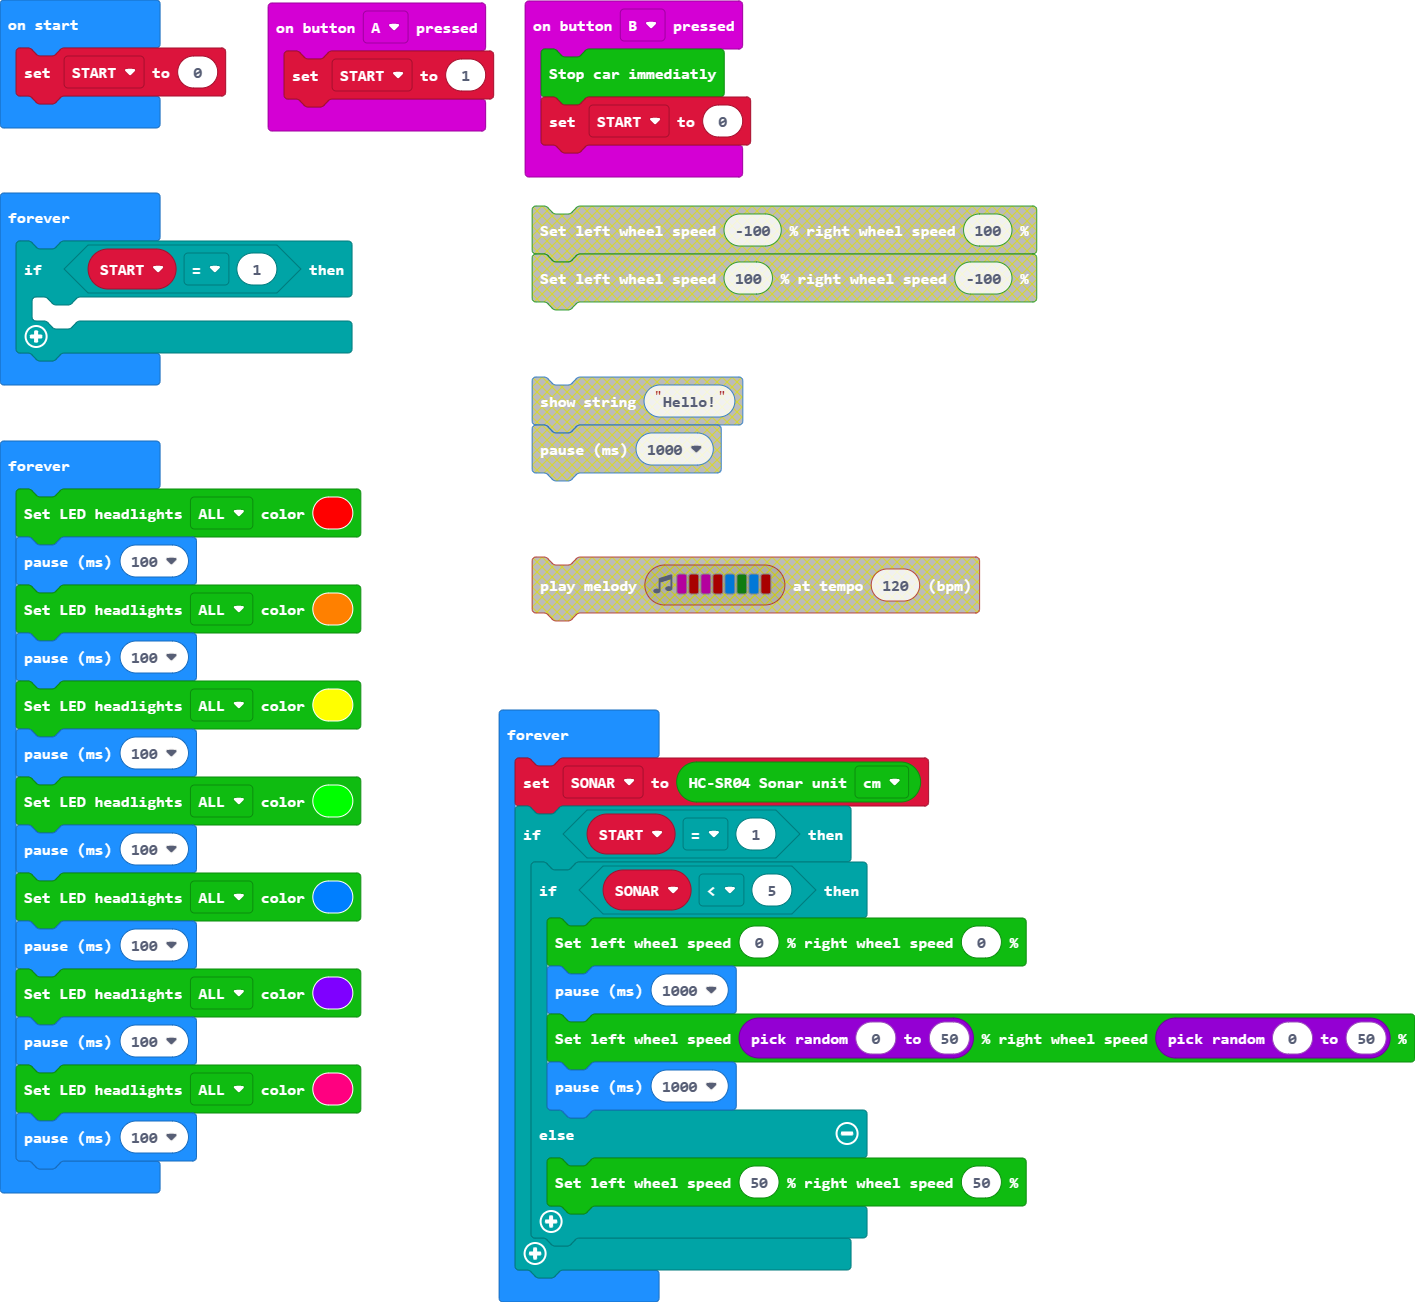
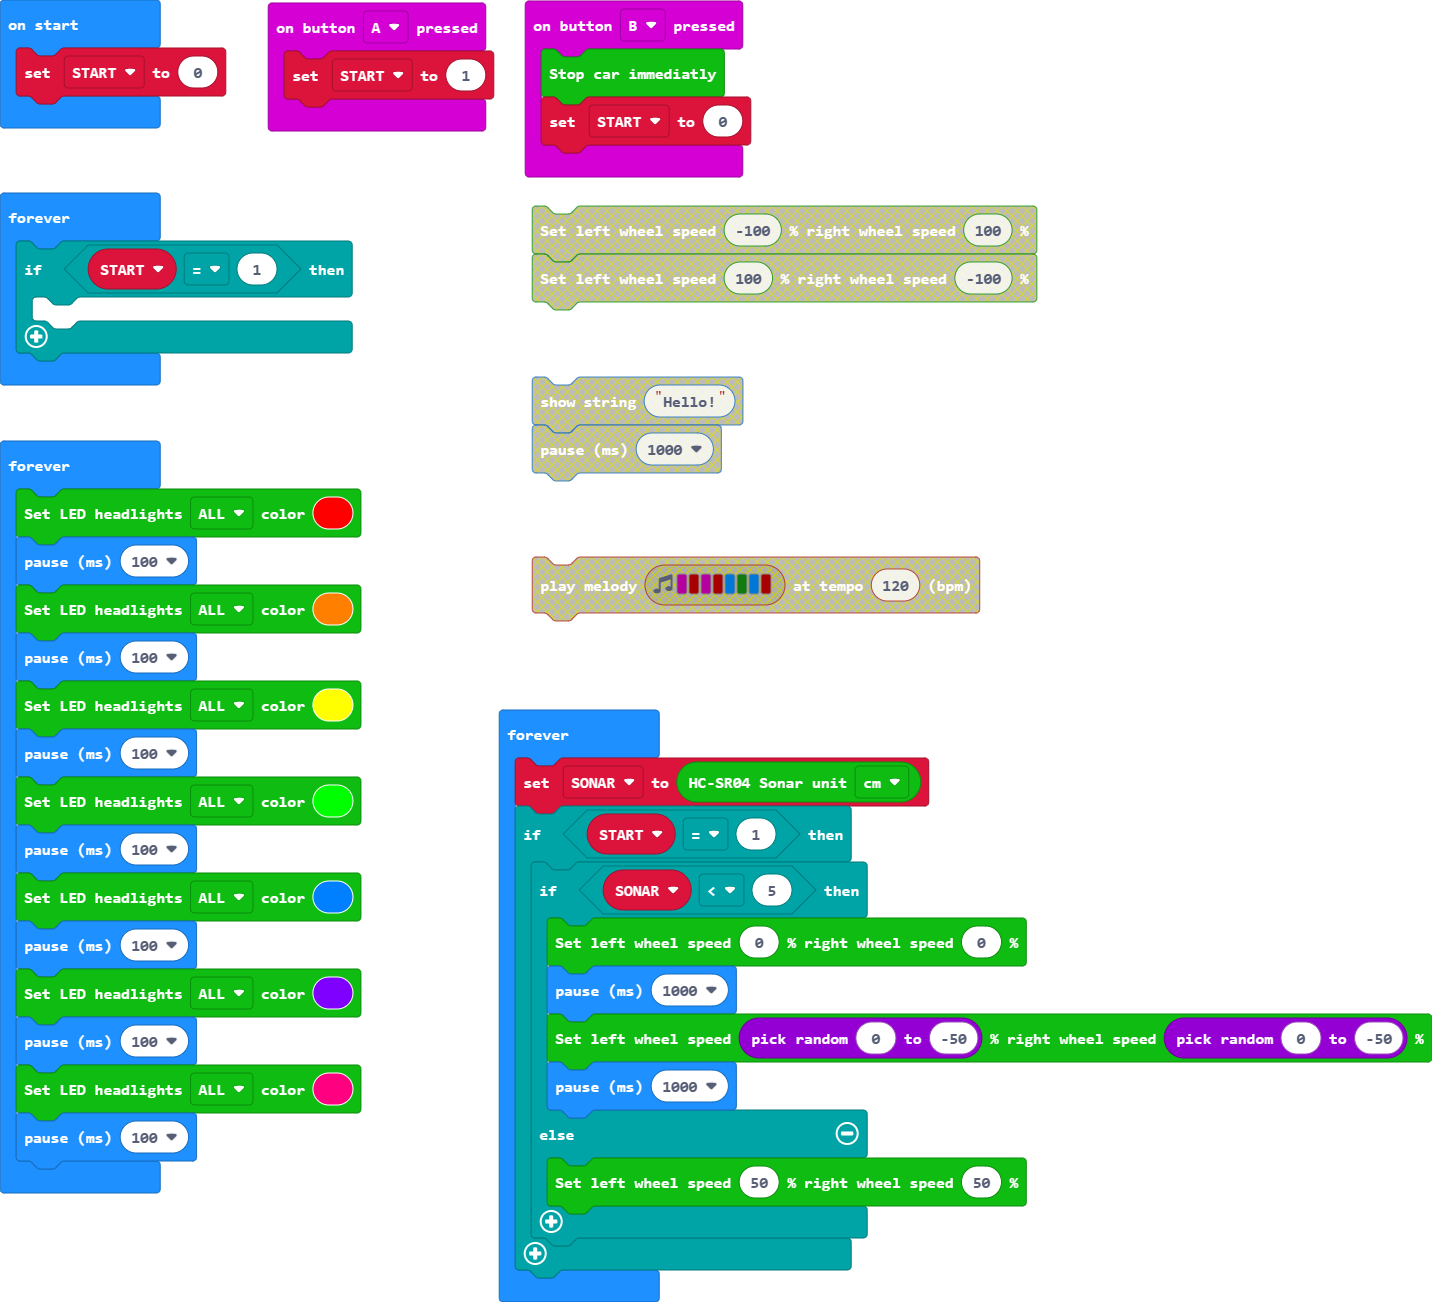
Update main.blocks, main.ts

diff --git a/main.ts b/main.ts
@@ -35,7 +35,7 @@ basic.forever(function () {
         if (SONAR < 5) {
             cuteBot.motors(0, 0)
             basic.pause(1000)
-            cuteBot.motors(randint(0, 50), randint(0, 50))
+            cuteBot.motors(randint(0, -50), randint(0, -50))
             basic.pause(1000)
         } else {
             cuteBot.motors(50, 50)
